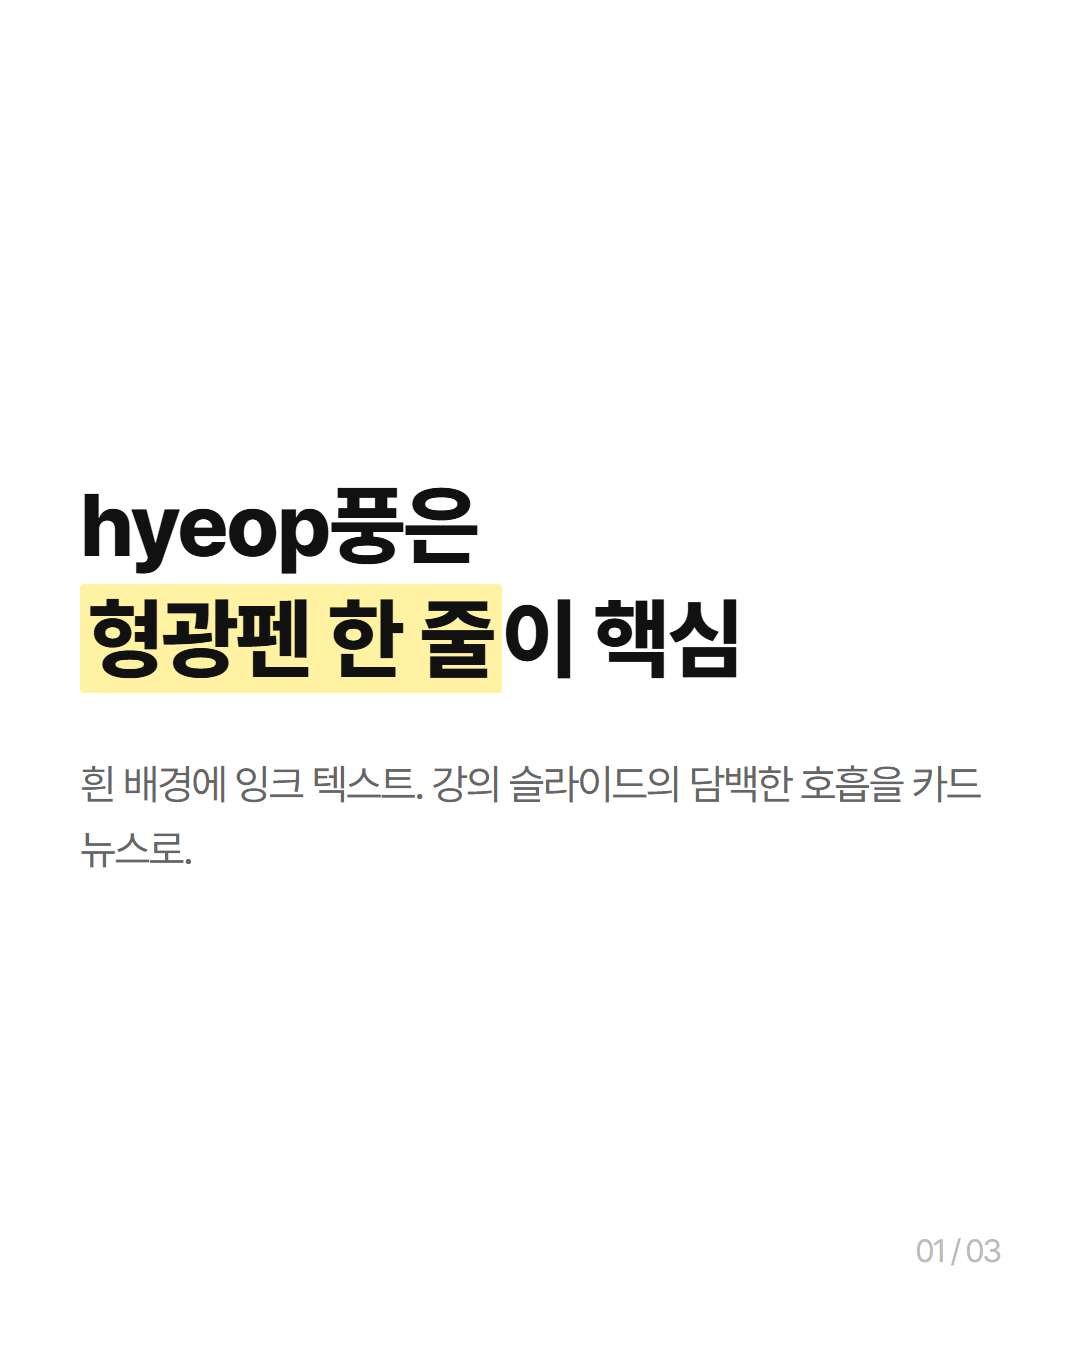
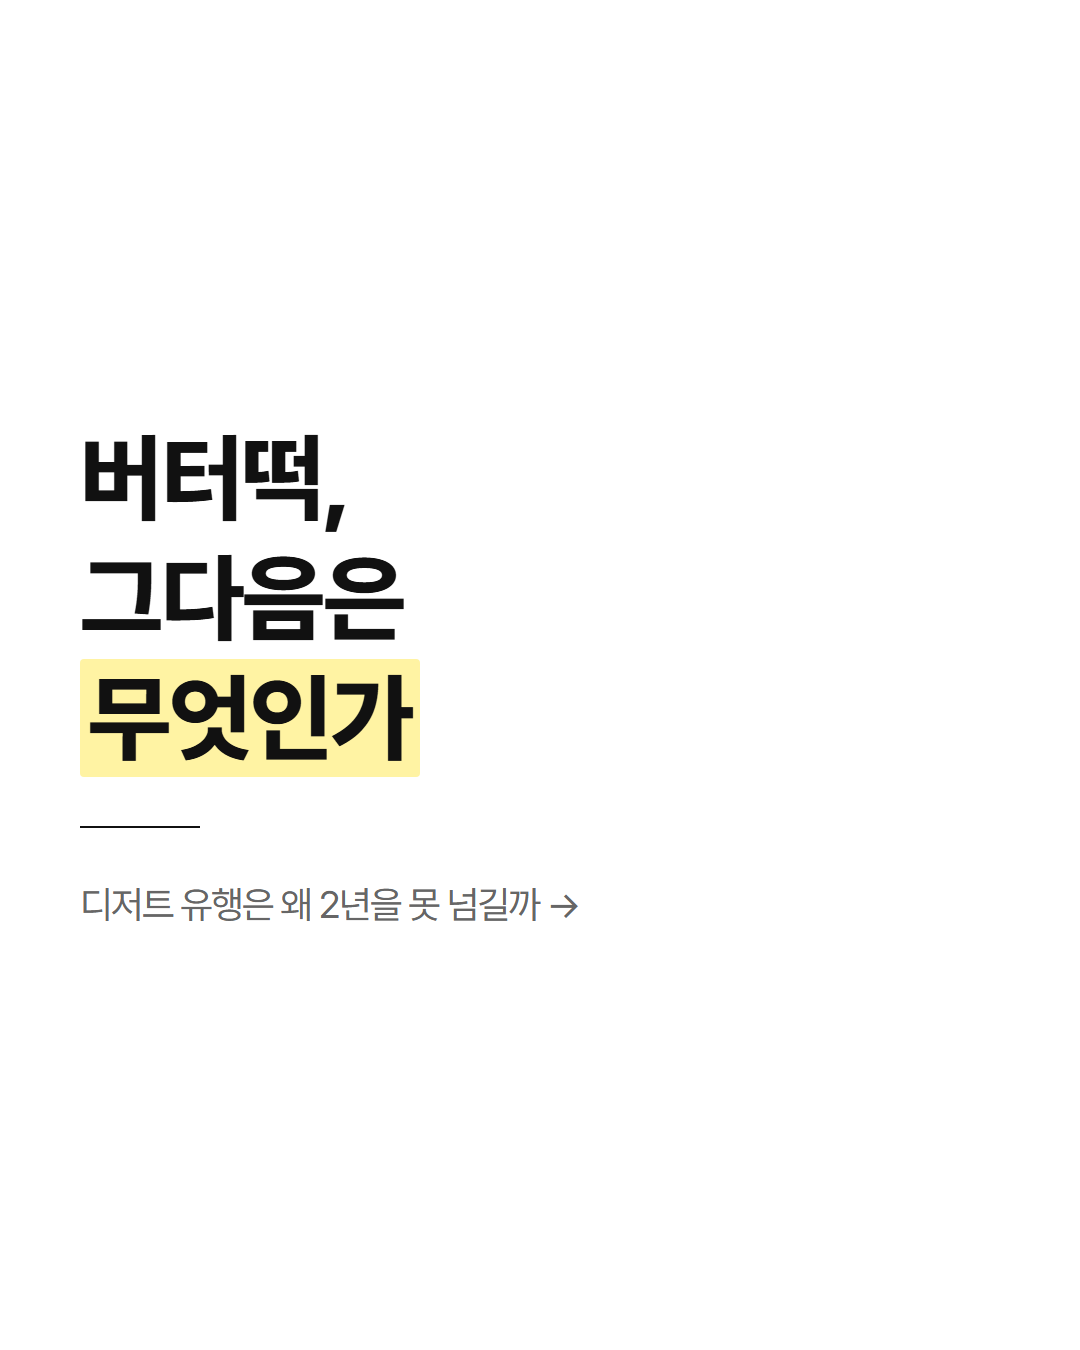
프리셋 시안을 7장 풀 카드뉴스 샘플로 확장 (버터떡, 그다음은 무엇인가)
사용자 디렉팅: 프리셋 미리보기가 각 1장뿐이라 빈약하니, 고양이 이미지
샘플 2장을 포함해 7장 정도의 통일된 주제 카드뉴스로 확장. 주제는
"버터떡 그다음은 무엇인가"로 지정(기존 dessert-next 샘플과 같은 계열).

- paperlogy·hyeop 두 프리셋 모두 같은 카피로 7장씩 구성: 표지(훅) →
  유행 연대기 → 유행 공식 → 밈 이미지 카드(grumpy cat) → 다음 주자
  조건 → 밈 이미지 카드(smudge) → 정리+팔로우 유도
- 같은 내용을 두 프리셋으로 나란히 비교할 수 있어 "세 방향 시안" 흐름의
  실물 데모 역할 (mono는 기존 output/dessert-next가 담당)
- 고양이 밈 2장은 output/_preset-preview/assets/ 공유 폴더에 배치,
  이미지 카드 사용법 예시를 겸함
- 주제만 받은 카피 창작 모드이므로 실존 통계·수치는 넣지 않음(충실도
  철칙), 널리 알려진 유행 사례 나열만 사용

검증: 14장 전부 capture.mjs로 캡처, 8장 육안 검수(겹침·넘침·페이지
번호·프리셋 규칙 위반 없음) 완료.

Changed region(s): [[0.0611, 0.3111, 0.9167, 0.6844], [0.8556, 0.9022, 0.9167, 0.9333]]

diff --git a/output/_preset-preview/paperlogy/01.html b/output/_preset-preview/paperlogy/01.html
@@ -4,17 +4,17 @@
 <meta charset="UTF-8">
 <link rel="stylesheet" href="../../../templates/presets/paperlogy.css">
 <style>
-.card { display: flex; flex-direction: column; justify-content: center; gap: 48px; }
-h1 { font-size: 88px; font-weight: 800; line-height: 1.25; }
-.panel p { font-size: 40px; line-height: 1.5; }
+.card { display:flex; flex-direction:column; justify-content:center; gap:44px; }
+h1 { font-size: 96px; font-weight: 800; line-height: 1.22; }
+.hook { font-size: 38px; line-height:1.5; }
 </style>
 </head>
 <body>
   <div class="card">
-    <span class="tag" style="align-self:flex-start;">PRESET</span>
-    <h1>paperlogy풍<br><span class="accent">포인트 블루</span>와 흰 카드</h1>
-    <div class="panel"><p class="sub">회색 배경 위 흰 패널. 리포트처럼 차분한 톤으로 정보를 담습니다.</p></div>
-    <div class="page-num">01 / 03</div>
+
+    <span class="tag" style="align-self:flex-start;">DESSERT TREND</span>
+    <h1>버터떡,<br>그다음은<br><span class="accent">무엇인가</span></h1>
+    <p class="hook sub">디저트 유행은 왜 2년을 못 넘길까 →</p>
   </div>
 </body>
 </html>

diff --git a/output/_preset-preview/paperlogy/02.html b/output/_preset-preview/paperlogy/02.html
@@ -1,0 +1,27 @@
+<!DOCTYPE html>
+<html lang="ko">
+<head>
+<meta charset="UTF-8">
+<link rel="stylesheet" href="../../../templates/presets/paperlogy.css">
+<style>
+.card { display:flex; flex-direction:column; justify-content:center; gap:40px; }
+h2 { font-size: 64px; font-weight: 800; line-height:1.3; }
+.flow { display:flex; flex-direction:column; gap:20px; }
+.flow .panel { padding: 30px 40px; font-size: 40px; font-weight:700; }
+.flow .panel span { color:#8e8e93; font-weight:500; font-size:32px; margin-right:18px; }
+</style>
+</head>
+<body>
+  <div class="card">
+
+    <h2>우리는 이 길을<br>이미 걸어왔다</h2>
+    <div class="flow">
+      <div class="panel"><span>01</span>허니버터칩</div>
+      <div class="panel"><span>02</span>탕후루</div>
+      <div class="panel"><span>03</span>두바이 쫀득쿠키</div>
+      <div class="panel"><span>04</span><b class="accent">버터떡 ← 지금 여기</b></div>
+    </div>
+    <div class="page-num">02 / 07</div>
+  </div>
+</body>
+</html>

diff --git a/output/_preset-preview/hyeop/01.html b/output/_preset-preview/hyeop/01.html
@@ -4,16 +4,17 @@
 <meta charset="UTF-8">
 <link rel="stylesheet" href="../../../templates/presets/hyeop.css">
 <style>
-.card { display: flex; flex-direction: column; justify-content: center; gap: 56px; }
-h1 { font-size: 88px; font-weight: 800; line-height: 1.3; }
-p { font-size: 42px; line-height: 1.55; }
+.card { display:flex; flex-direction:column; justify-content:center; gap:48px; }
+h1 { font-size: 96px; font-weight: 800; line-height: 1.25; }
+.hook { font-size: 38px; line-height:1.5; }
 </style>
 </head>
 <body>
   <div class="card">
-    <h1>hyeop풍은<br><mark>형광펜 한 줄</mark>이 핵심</h1>
-    <p class="sub">흰 배경에 잉크 텍스트. 강의 슬라이드의 담백한 호흡을 카드뉴스로.</p>
-    <div class="page-num">01 / 03</div>
+
+    <h1>버터떡,<br>그다음은<br><mark>무엇인가</mark></h1>
+    <hr class="divider">
+    <p class="hook sub">디저트 유행은 왜 2년을 못 넘길까 →</p>
   </div>
 </body>
 </html>

diff --git a/output/_preset-preview/hyeop/02.html b/output/_preset-preview/hyeop/02.html
@@ -1,0 +1,27 @@
+<!DOCTYPE html>
+<html lang="ko">
+<head>
+<meta charset="UTF-8">
+<link rel="stylesheet" href="../../../templates/presets/hyeop.css">
+<style>
+.card { display:flex; flex-direction:column; justify-content:center; gap:44px; }
+h2 { font-size: 64px; font-weight: 800; line-height:1.3; }
+.flow { display:flex; flex-direction:column; gap:8px; font-size:44px; font-weight:700; line-height:1.7; }
+.flow span { color:#bbb; font-weight:400; font-size:34px; margin-right:16px; }
+</style>
+</head>
+<body>
+  <div class="card">
+
+    <h2>우리는 이 길을<br>이미 걸어왔다</h2>
+    <hr class="divider">
+    <div class="flow">
+      <div><span>01</span>허니버터칩</div>
+      <div><span>02</span>탕후루</div>
+      <div><span>03</span>두바이 쫀득쿠키</div>
+      <div><span>04</span><mark>버터떡 ← 지금 여기</mark></div>
+    </div>
+    <div class="page-num">02 / 07</div>
+  </div>
+</body>
+</html>

diff --git a/output/_preset-preview/paperlogy/06.html b/output/_preset-preview/paperlogy/06.html
@@ -1,0 +1,23 @@
+<!DOCTYPE html>
+<html lang="ko">
+<head>
+<meta charset="UTF-8">
+<link rel="stylesheet" href="../../../templates/presets/paperlogy.css">
+<style>
+.card { display:flex; flex-direction:column; justify-content:center; gap:36px; }
+h2 { font-size: 56px; font-weight: 800; line-height:1.3; }
+.imgwrap { background:#fff; border-radius:24px; padding:32px; box-shadow:0 4px 18px rgba(0,0,0,0.06); }
+.imgwrap img { display:block; width:100%; max-height:700px; object-fit:contain; border-radius:14px; }
+.cap { font-size: 34px; text-align:center; }
+</style>
+</head>
+<body>
+  <div class="card">
+
+    <h2>"버터떡이 끝이라니까!"<br>"아니, 다음 게 온다니까?"</h2>
+    <div class="imgwrap"><img src="../assets/smudge-cat.jpg" alt=""></div>
+    <p class="cap sub">유행 논쟁은 언제나 이런 모양 (밈 이미지도 카드가 된다)</p>
+    <div class="page-num">06 / 07</div>
+  </div>
+</body>
+</html>

diff --git a/output/_preset-preview/paperlogy/07.html b/output/_preset-preview/paperlogy/07.html
@@ -1,0 +1,23 @@
+<!DOCTYPE html>
+<html lang="ko">
+<head>
+<meta charset="UTF-8">
+<link rel="stylesheet" href="../../../templates/presets/paperlogy.css">
+<style>
+.card { display:flex; flex-direction:column; justify-content:center; gap:44px; }
+h2 { font-size: 72px; font-weight: 800; line-height:1.32; }
+.panel p { font-size: 40px; line-height:1.55; }
+.follow { font-size: 36px; color:#8e8e93; }
+</style>
+</head>
+<body>
+  <div class="card">
+
+    <span class="tag" style="align-self:flex-start;">정리</span>
+    <h2>다음 유행을 맞히는 것보다<br><span class="accent">공식을 기억하는 것</span>이<br>더 오래간다</h2>
+    <div class="panel"><p>식감 · 숏폼 · 줄서기. 다음 디저트가 등장하면 이 세 가지부터 확인해 보세요.</p></div>
+    <p class="follow">다음 트렌드 분석이 궁금하다면 팔로우</p>
+    <div class="page-num">07 / 07</div>
+  </div>
+</body>
+</html>

diff --git a/output/_preset-preview/paperlogy/04.html b/output/_preset-preview/paperlogy/04.html
@@ -1,0 +1,23 @@
+<!DOCTYPE html>
+<html lang="ko">
+<head>
+<meta charset="UTF-8">
+<link rel="stylesheet" href="../../../templates/presets/paperlogy.css">
+<style>
+.card { display:flex; flex-direction:column; justify-content:center; gap:36px; }
+h2 { font-size: 56px; font-weight: 800; line-height:1.3; }
+.imgwrap { background:#fff; border-radius:24px; padding:32px; box-shadow:0 4px 18px rgba(0,0,0,0.06); }
+.imgwrap img { display:block; width:100%; max-height:760px; object-fit:contain; border-radius:14px; }
+.cap { font-size: 34px; text-align:center; }
+</style>
+</head>
+<body>
+  <div class="card">
+
+    <h2>"또 신상 디저트에<br>줄을 서라고?"</h2>
+    <div class="imgwrap"><img src="../assets/grumpy-cat.jpg" alt=""></div>
+    <p class="cap sub">유행이 피로해진 소비자의 표정 (이미지 카드는 이렇게)</p>
+    <div class="page-num">04 / 07</div>
+  </div>
+</body>
+</html>

diff --git a/output/_preset-preview/hyeop/05.html b/output/_preset-preview/hyeop/05.html
@@ -1,0 +1,26 @@
+<!DOCTYPE html>
+<html lang="ko">
+<head>
+<meta charset="UTF-8">
+<link rel="stylesheet" href="../../../templates/presets/hyeop.css">
+<style>
+.card { display:flex; flex-direction:column; justify-content:center; gap:44px; }
+h2 { font-size: 64px; font-weight: 800; line-height:1.3; }
+p { font-size: 42px; line-height: 1.6; }
+p + p { margin-top: 14px; }
+.note { font-size: 36px; margin-top: 18px; }
+</style>
+</head>
+<body>
+  <div class="card">
+
+    <h2>다음 주자의 조건</h2>
+    <hr class="divider">
+    <p>한 입 컷이 나오는 <mark>비주얼</mark></p>
+    <p>아무 데서나 못 사는 <strong>희소성</strong></p>
+    <p>"이게 무슨 맛이지?"라는 <strong>호기심</strong></p>
+    <p class="note sub">세 가지를 다 갖춘 후보가 나타나는 순간, 줄은 다시 생긴다.</p>
+    <div class="page-num">05 / 07</div>
+  </div>
+</body>
+</html>

diff --git a/output/_preset-preview/paperlogy/05.html b/output/_preset-preview/paperlogy/05.html
@@ -1,0 +1,26 @@
+<!DOCTYPE html>
+<html lang="ko">
+<head>
+<meta charset="UTF-8">
+<link rel="stylesheet" href="../../../templates/presets/paperlogy.css">
+<style>
+.card { display:flex; flex-direction:column; justify-content:center; gap:40px; }
+h2 { font-size: 64px; font-weight: 800; line-height:1.3; }
+.panel p { font-size: 40px; line-height: 1.55; }
+.panel p + p { margin-top: 22px; }
+</style>
+</head>
+<body>
+  <div class="card">
+
+    <h2>다음 주자의 조건</h2>
+    <div class="panel">
+      <p>한 입 컷이 나오는 <b class="accent">비주얼</b></p>
+      <p>아무 데서나 못 사는 <b>희소성</b></p>
+      <p>"이게 무슨 맛이지?"라는 <b>호기심</b></p>
+    </div>
+    <p class="sub" style="font-size:36px;">세 가지를 다 갖춘 후보가 나타나는 순간, 줄은 다시 생긴다.</p>
+    <div class="page-num">05 / 07</div>
+  </div>
+</body>
+</html>

diff --git a/output/_preset-preview/paperlogy/03.html b/output/_preset-preview/paperlogy/03.html
@@ -1,0 +1,25 @@
+<!DOCTYPE html>
+<html lang="ko">
+<head>
+<meta charset="UTF-8">
+<link rel="stylesheet" href="../../../templates/presets/paperlogy.css">
+<style>
+.card { display:flex; flex-direction:column; justify-content:center; gap:40px; }
+h2 { font-size: 64px; font-weight: 800; line-height:1.3; }
+.panel p { font-size: 40px; line-height: 1.55; }
+.panel p + p { margin-top: 22px; }
+</style>
+</head>
+<body>
+  <div class="card">
+
+    <h2>유행의 공식은<br>이미 정해져 있다</h2>
+    <div class="panel">
+      <p><b class="accent">자극적인 식감</b> - 말로 설명하게 만든다</p>
+      <p><b>숏폼에 잘 찍힌다</b> - 늘어나고, 흐르고, 부서진다</p>
+      <p><b>줄을 세운다</b> - 희소성이 곧 콘텐츠가 된다</p>
+    </div>
+    <div class="page-num">03 / 07</div>
+  </div>
+</body>
+</html>

diff --git a/output/_preset-preview/hyeop/07.html b/output/_preset-preview/hyeop/07.html
@@ -1,0 +1,23 @@
+<!DOCTYPE html>
+<html lang="ko">
+<head>
+<meta charset="UTF-8">
+<link rel="stylesheet" href="../../../templates/presets/hyeop.css">
+<style>
+.card { display:flex; flex-direction:column; justify-content:center; gap:48px; }
+h2 { font-size: 72px; font-weight: 800; line-height:1.35; }
+p { font-size: 42px; line-height:1.6; }
+.follow { font-size: 36px; color:#999; }
+</style>
+</head>
+<body>
+  <div class="card">
+
+    <h2>다음 유행을 맞히는 것보다<br><mark>공식을 기억하는 것</mark>이<br>더 오래간다</h2>
+    <hr class="divider">
+    <p>식감 · 숏폼 · 줄서기.<br>다음 디저트가 등장하면 이 세 가지부터 확인해 보세요.</p>
+    <p class="follow sub">다음 트렌드 분석이 궁금하다면 팔로우</p>
+    <div class="page-num">07 / 07</div>
+  </div>
+</body>
+</html>

diff --git a/output/_preset-preview/hyeop/03.html b/output/_preset-preview/hyeop/03.html
@@ -1,0 +1,24 @@
+<!DOCTYPE html>
+<html lang="ko">
+<head>
+<meta charset="UTF-8">
+<link rel="stylesheet" href="../../../templates/presets/hyeop.css">
+<style>
+.card { display:flex; flex-direction:column; justify-content:center; gap:44px; }
+h2 { font-size: 64px; font-weight: 800; line-height:1.3; }
+p { font-size: 42px; line-height: 1.6; }
+p + p { margin-top: 14px; }
+</style>
+</head>
+<body>
+  <div class="card">
+
+    <h2>유행의 공식은<br>이미 정해져 있다</h2>
+    <hr class="divider">
+    <p><mark>자극적인 식감</mark> - 말로 설명하게 만든다</p>
+    <p><strong>숏폼에 잘 찍힌다</strong> - 늘어나고, 흐르고, 부서진다</p>
+    <p><strong>줄을 세운다</strong> - 희소성이 곧 콘텐츠가 된다</p>
+    <div class="page-num">03 / 07</div>
+  </div>
+</body>
+</html>
